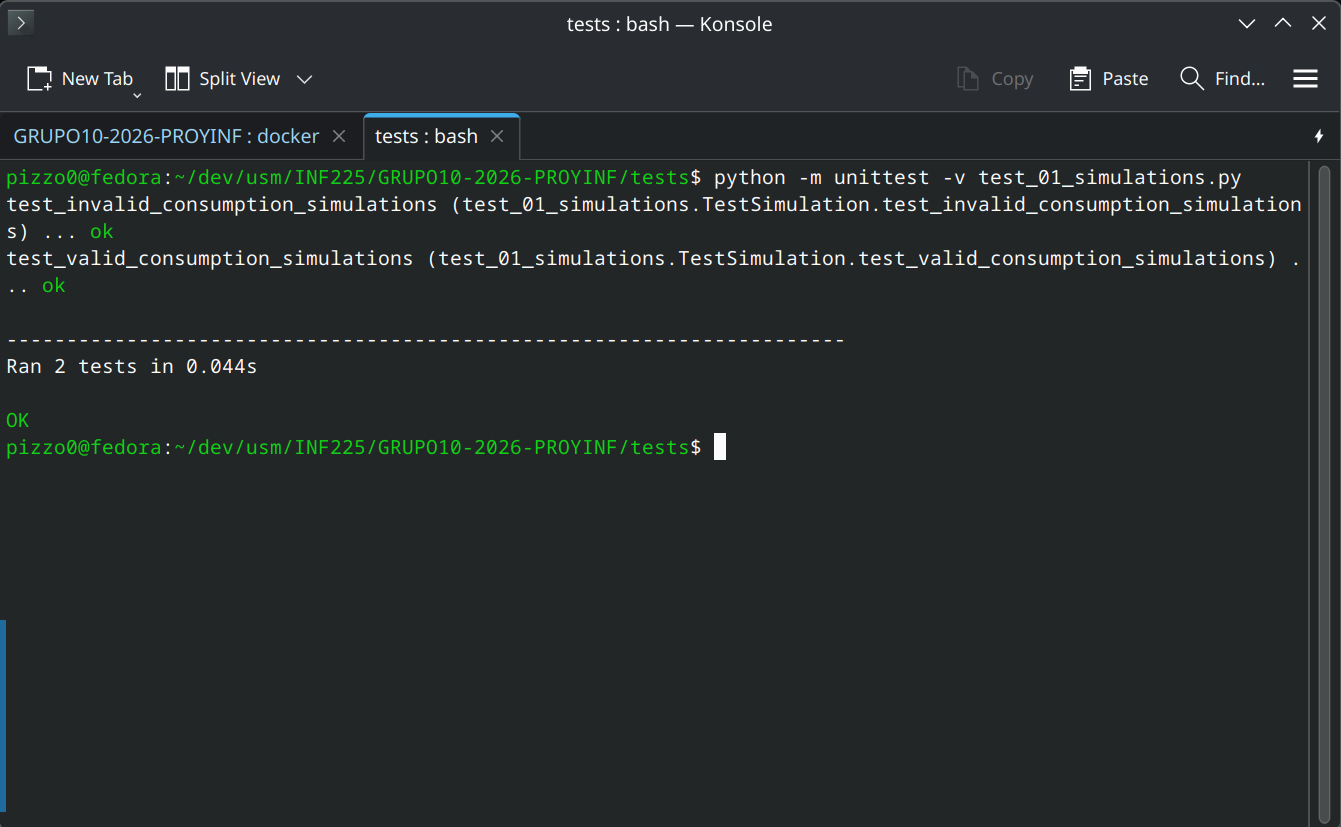
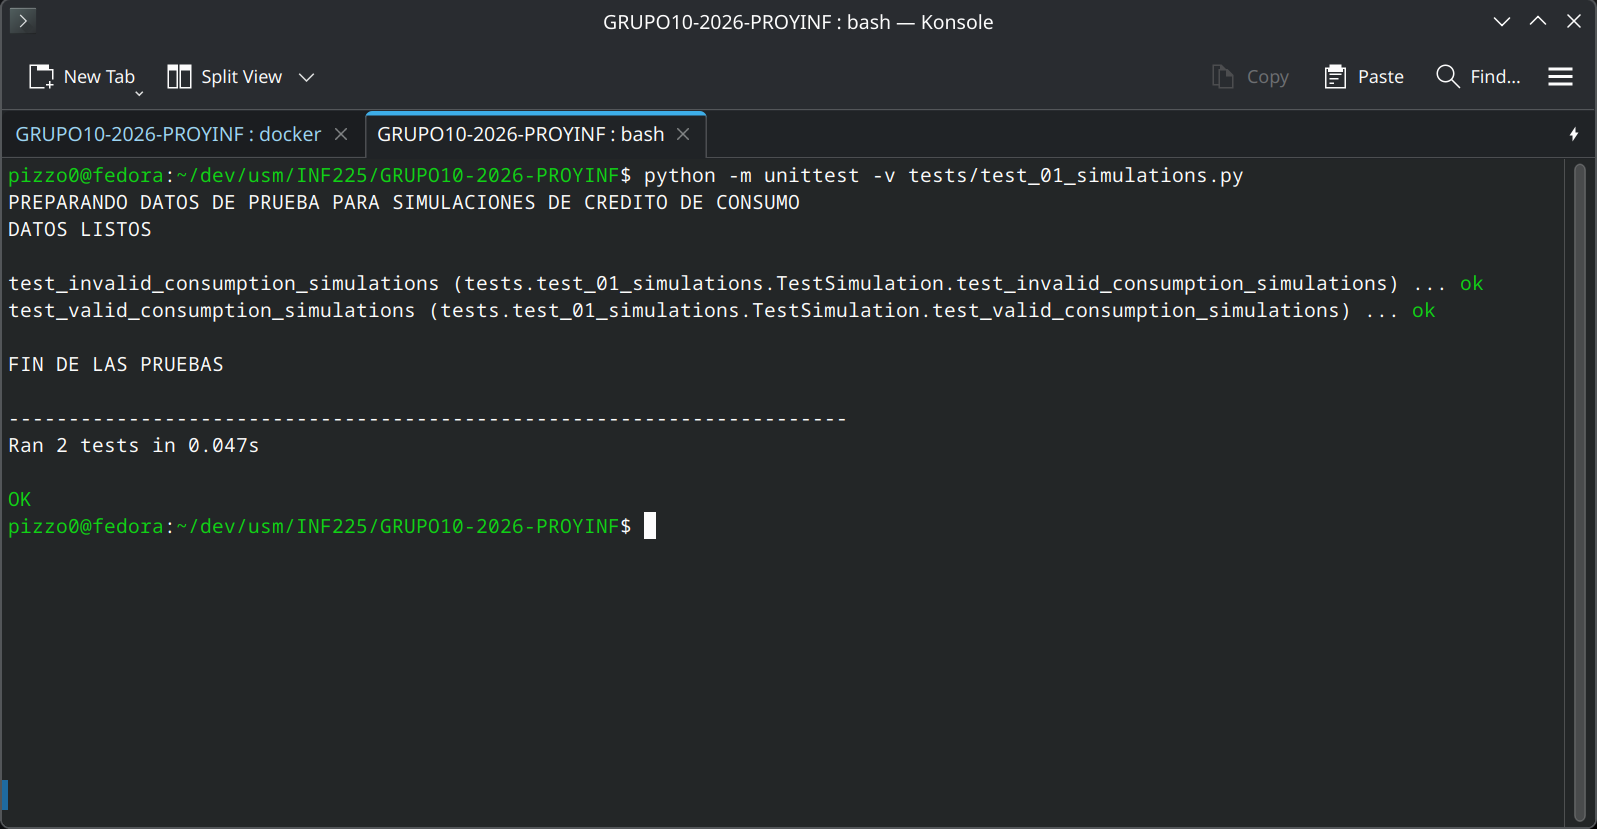
ME FALTO ALGO XD

diff --git a/tests/test_01_simulations.py b/tests/test_01_simulations.py
@@ -13,22 +13,27 @@ FIRST_PAYMENT_DATE = (datetime.today() + timedelta(days=45)).strftime("%Y-%m-%d"
 # CONSIDERARAN PARA ESTAS PRUEBAS !!!!
 # CUANDO ESTEN SI SE METERAN XD
 class TestSimulation(unittest.TestCase):
-    def setUp(self):
-        # CONFIG (PARAMETROS)
+    @classmethod
+    def setUpClass(cls):
+        print("PREPARANDO DATOS DE PRUEBA PARA SIMULACIONES DE CREDITO DE CONSUMO")
+
         config_response = requests.get(f"{BASE_API}/consumption")
+
         if config_response.status_code != 200:
-            raise Exception("NO SE PUDO OBTENER CONFIG DE CREDITOS")
+            raise Exception(
+                "NO SE PUDO OBTENER CONFIG DE CREDITOS"
+            )
         params = config_response.json()["data"]["parameters"]
 
         # LIMITS
-        self.min_term = params["term"]["min"]
-        self.max_term = params["term"]["max"]
+        cls.min_term = params["term"]["min"]
+        cls.max_term = params["term"]["max"]
 
-        self.min_amount = params["amount"]["min"]
-        self.max_amount = params["amount"]["max"]
+        cls.min_amount = params["amount"]["min"]
+        cls.max_amount = params["amount"]["max"]
 
         # DATA
-        self.base_data = {
+        cls.base_data = {
             "nationalId": "12.345.678-9",
             "useSimplePersonalInformation": True,
             "income": 600_000,
@@ -36,6 +41,12 @@ class TestSimulation(unittest.TestCase):
             "termMonthly": 12,
             "firstPaymentDate": FIRST_PAYMENT_DATE
         }
+
+        print("DATOS LISTOS\n")
+
+    @classmethod
+    def tearDownClass(cls):
+        print("\nFIN DE LAS PRUEBAS")
 
     def getApiUrl(self, creditType):
         return f"{BASE_API}/{creditType}/simulation"